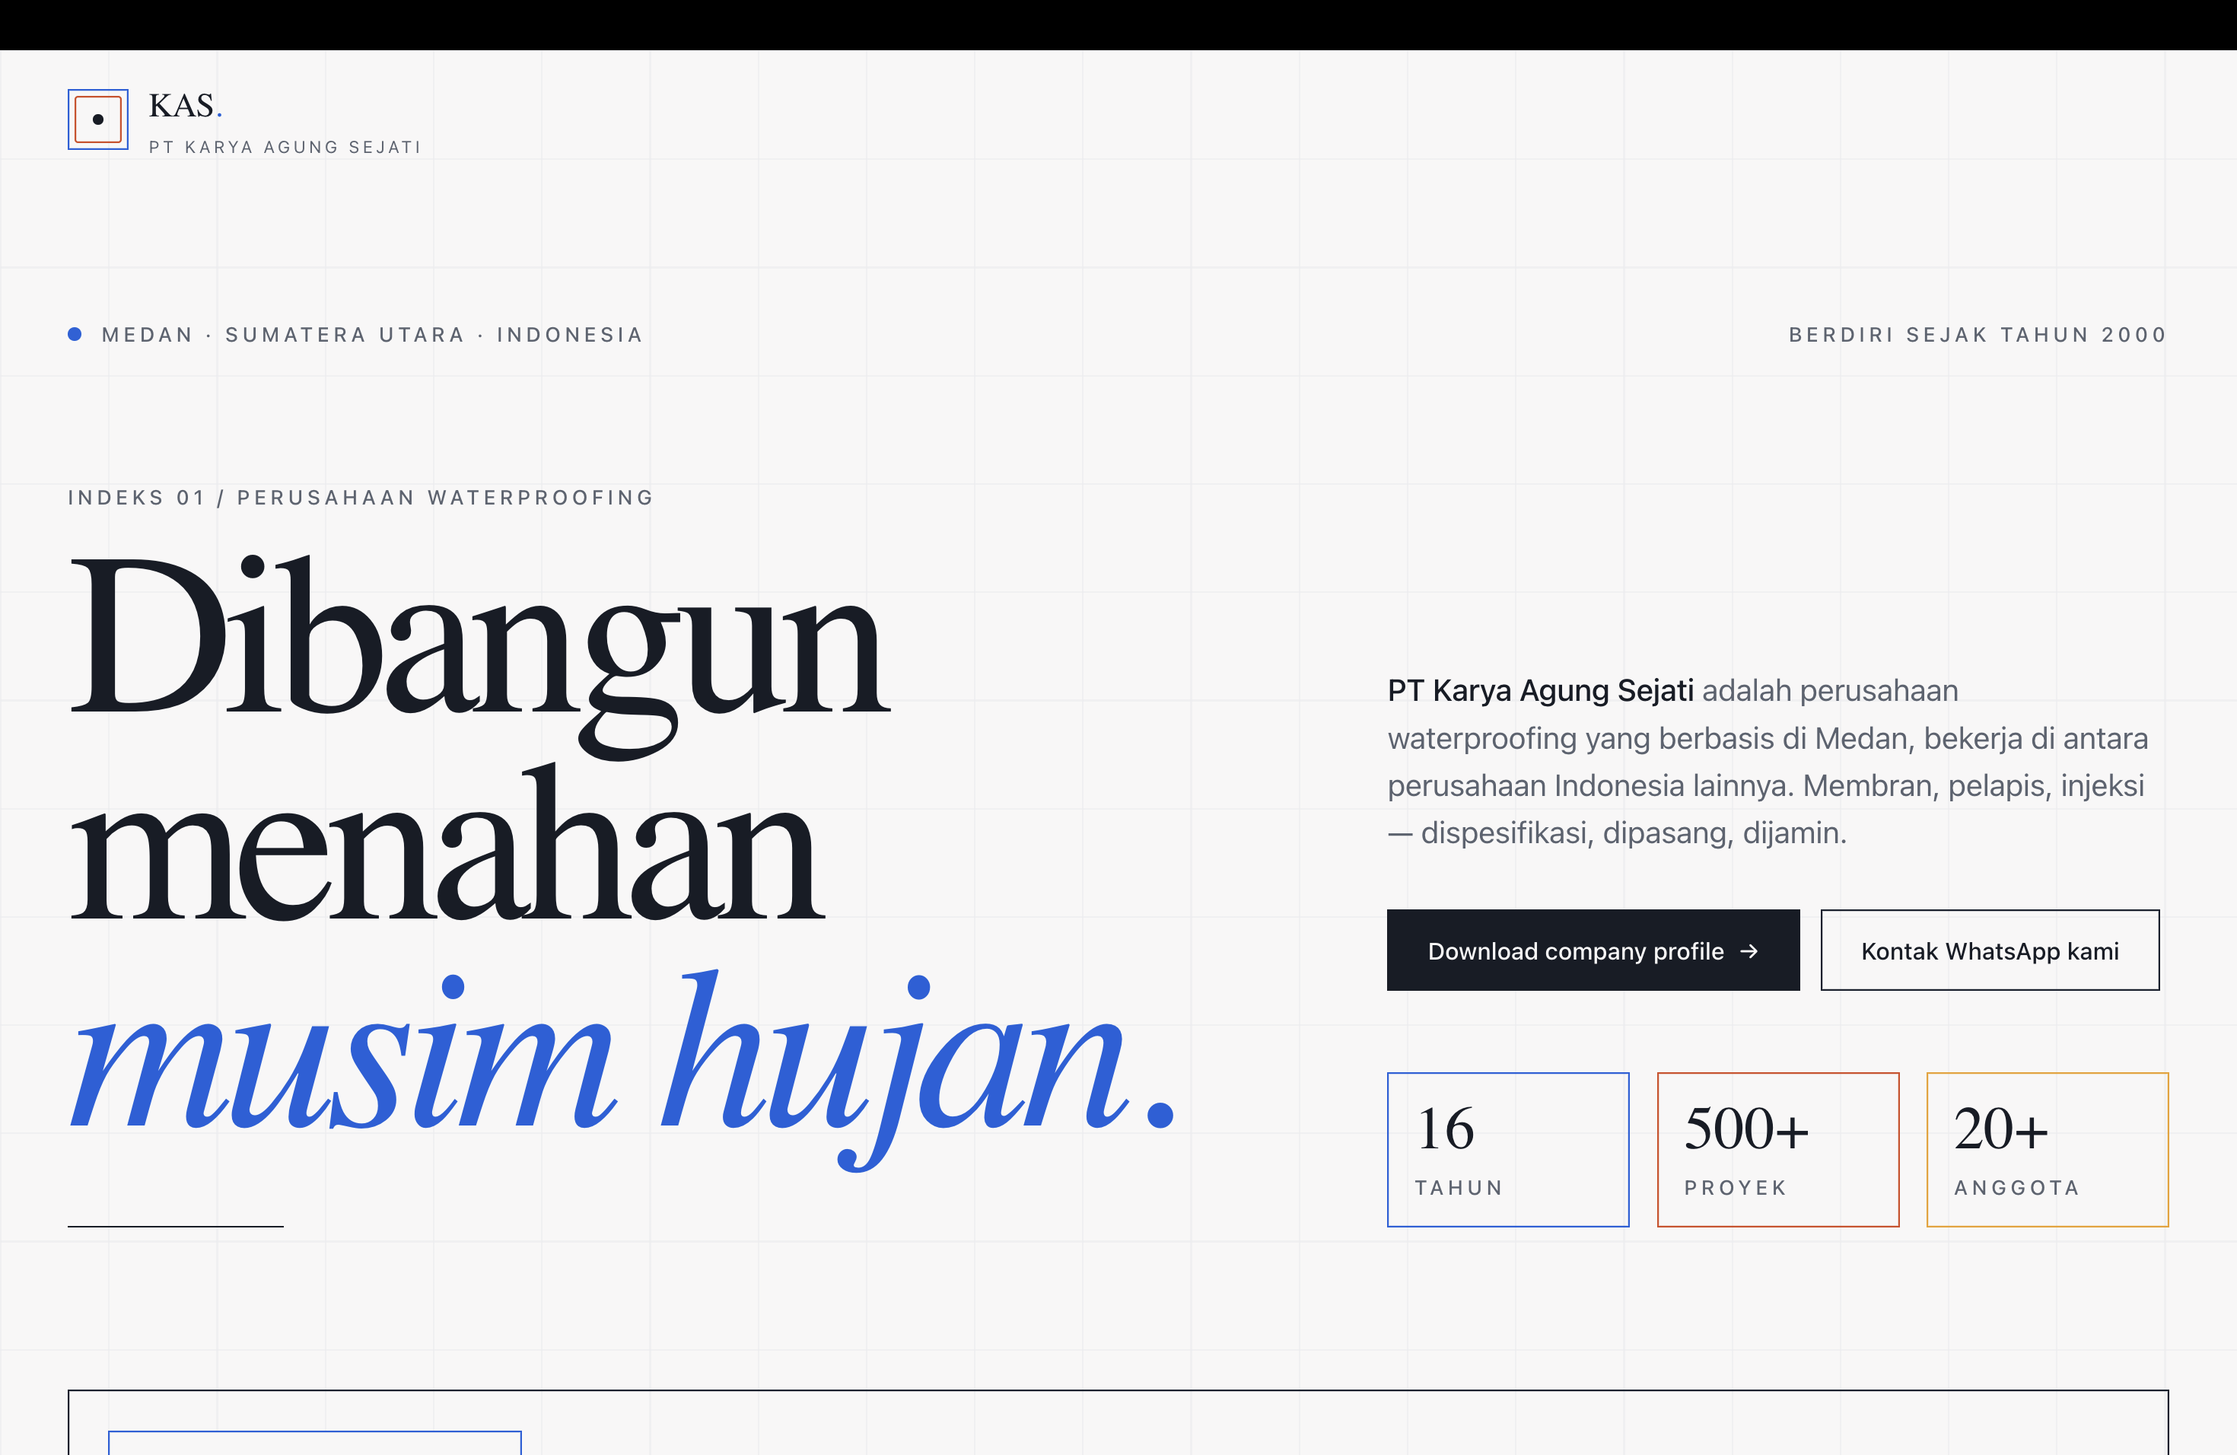
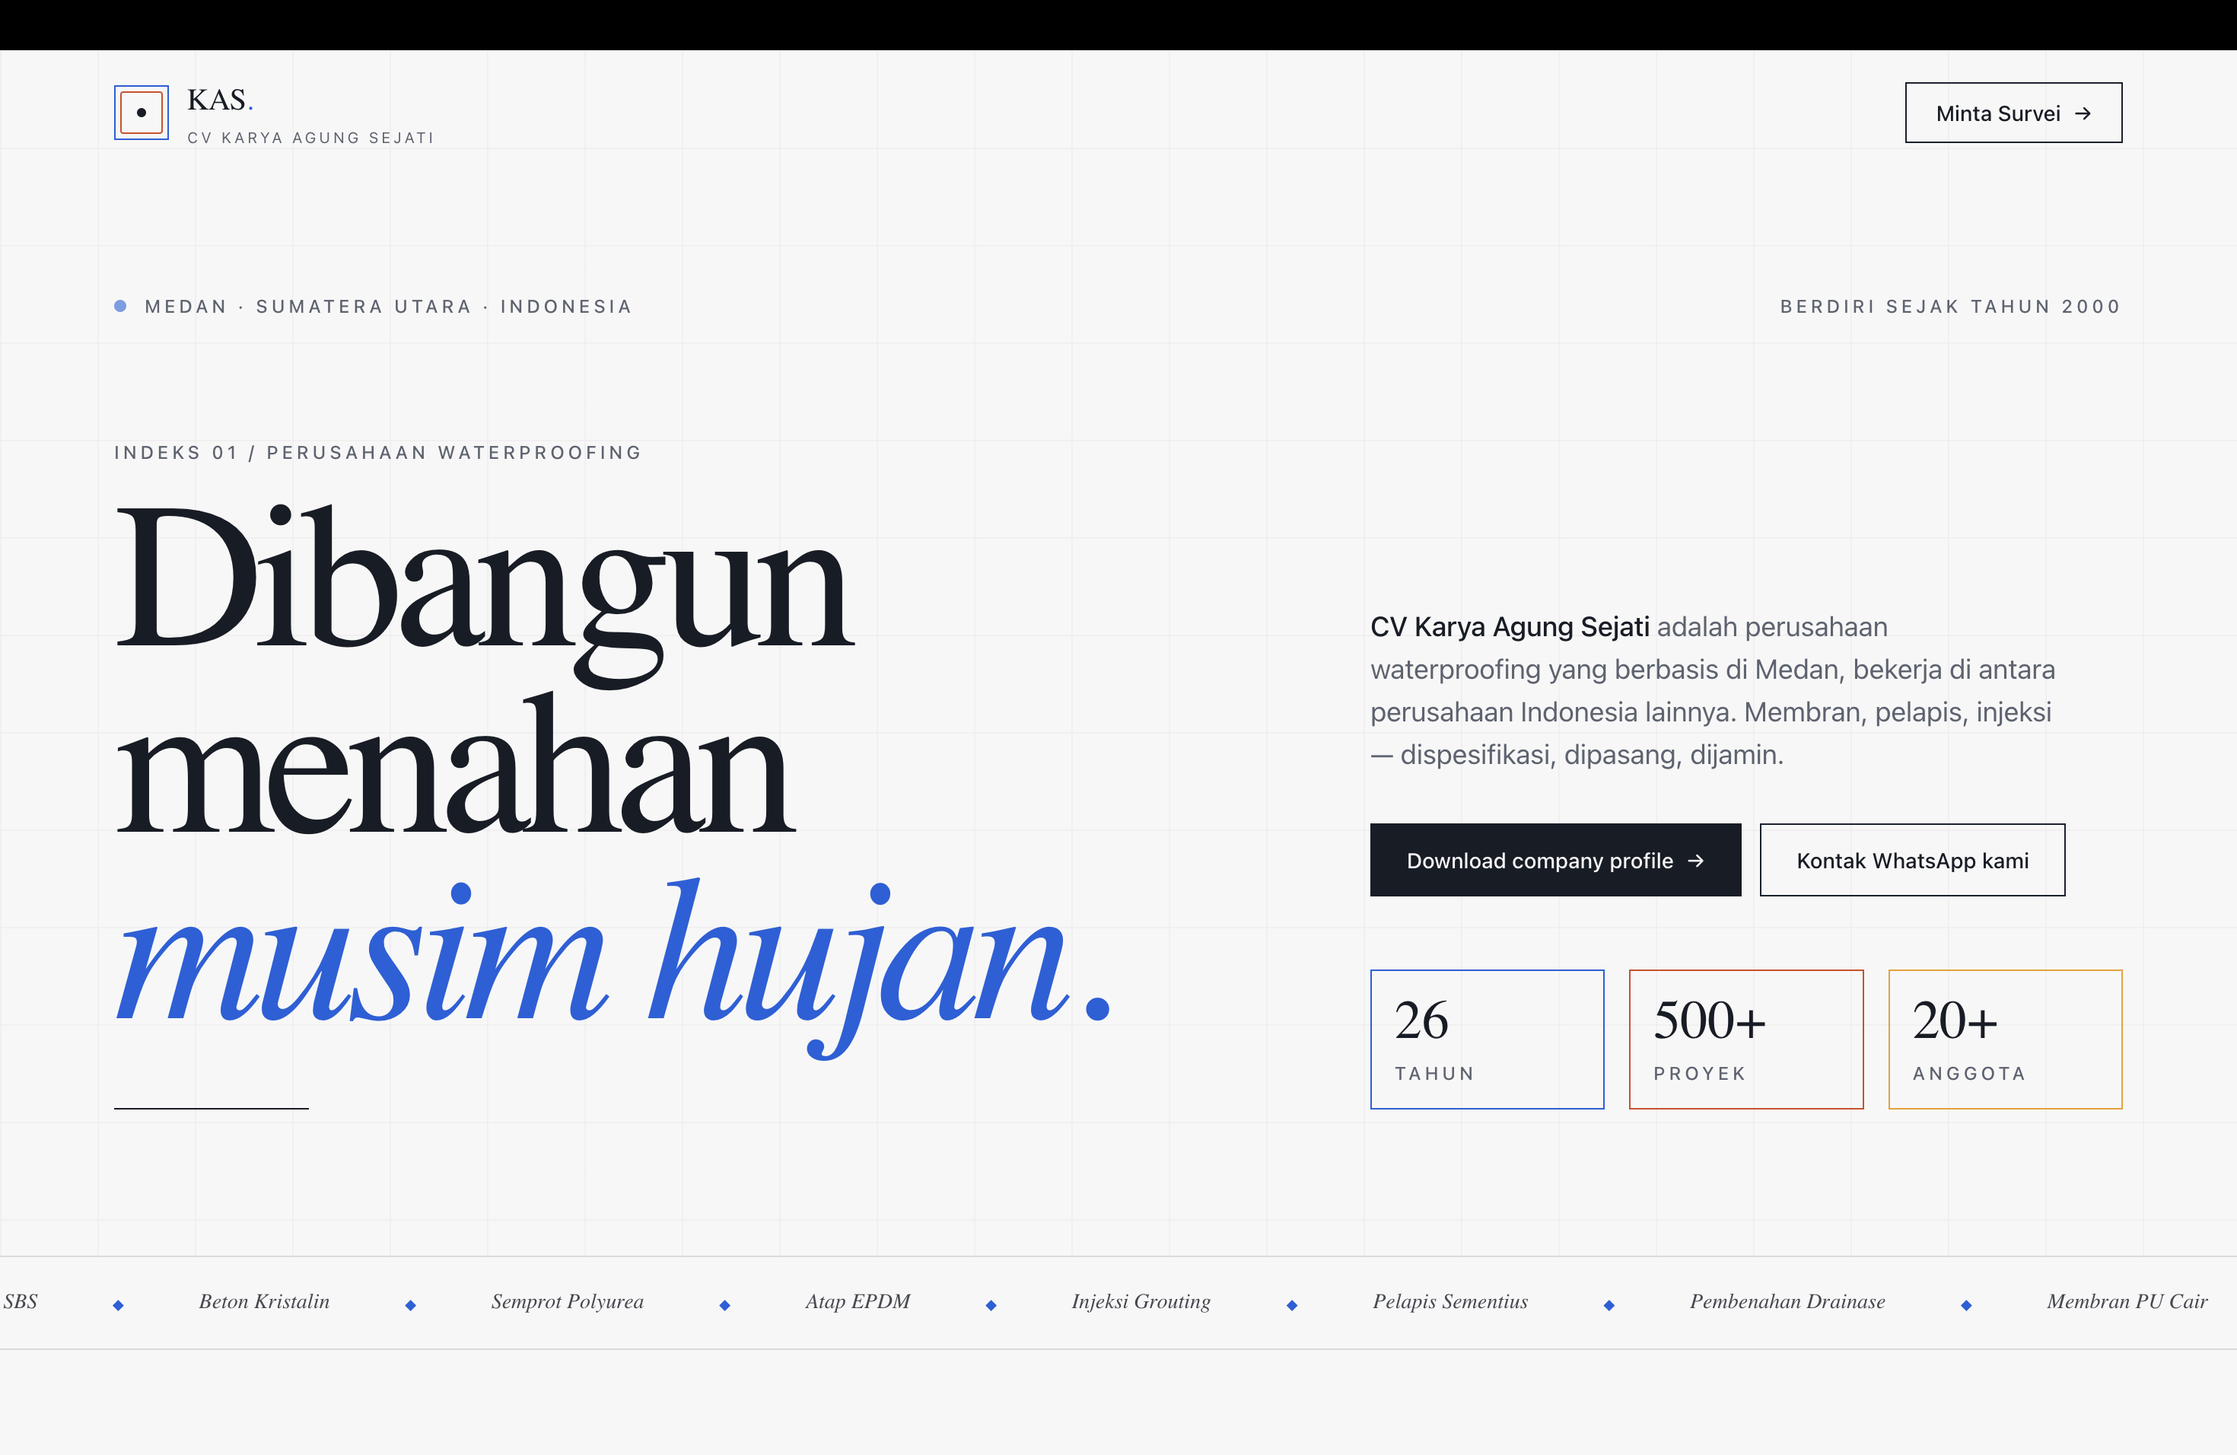
edit website color palette

diff --git a/src/components/Services.jsx b/src/components/Services.jsx
@@ -1,0 +1,92 @@
+"use client";
+
+import { motion } from "framer-motion";
+import { BiCodeAlt, BiPalette, BiLayout, BiTrendingUp } from "react-icons/bi";
+
+const services = [
+	{
+		icon: BiCodeAlt,
+		title: "Web Design & Development",
+		description:
+			"Responsive, fast, and accessible websites — designed and built from the ground up, then tested across devices before they go live.",
+	},
+	{
+		icon: BiPalette,
+		title: "Branding & Identity",
+		description:
+			"Logos, visual systems, and brand guidelines that give your business a clear, memorable, and consistent voice.",
+	},
+	{
+		icon: BiLayout,
+		title: "UI/UX Design",
+		description:
+			"Wireframes, prototypes, and user flows shaped through fast iteration — interfaces that feel effortless to use.",
+	},
+	{
+		icon: BiTrendingUp,
+		title: "Digital Strategy",
+		description:
+			"Guidance for businesses, startups, and growing enterprises navigating digital transformation with purpose.",
+	},
+];
+
+export function Services() {
+	return (
+		<section id="services" className="relative px-[5%] py-16 md:py-24 lg:py-28">
+			<div className="container mx-auto max-w-7xl">
+				{/* Header */}
+				<div className="mx-auto mb-12 max-w-2xl text-center md:mb-16 lg:mb-20">
+					<div className="flex items-center justify-center mb-6">
+						<div className="h-px w-16 bg-gradient-to-r from-transparent to-primary-400" />
+						<motion.div
+							className="mx-4 w-3 h-3 bg-primary-400 rounded-full"
+							animate={{ scale: [1, 1.4, 1], opacity: [0.6, 1, 0.6] }}
+							transition={{ duration: 3, repeat: Infinity, ease: "easeInOut" }}
+						/>
+						<div className="h-px w-16 bg-gradient-to-l from-transparent to-primary-400" />
+					</div>
+					<p className="mb-3 font-semibold text-primary-300 tracking-wide uppercase md:mb-4">
+						What We Do
+					</p>
+					<h2 className="mb-5 md:mb-6 text-4xl font-bold md:text-5xl lg:text-6xl text-white">
+						Our Services
+					</h2>
+					<p className="md:text-lg text-neutral-200">
+						From the first dot of an idea to a fully launched product — here's how
+						we help you connect the lines.
+					</p>
+				</div>
+
+				{/* Cards */}
+				<div className="grid grid-cols-1 gap-6 sm:grid-cols-2 lg:grid-cols-4 lg:gap-8">
+					{services.map((service, index) => {
+						const Icon = service.icon;
+						return (
+							<motion.div
+								key={index}
+								className="group relative h-full backdrop-blur-xl bg-white/10 border border-white/20 rounded-3xl p-8 shadow-2xl transition-all duration-500 hover:bg-white/15 hover:border-white/30"
+								initial={{ opacity: 0, y: 30 }}
+								whileInView={{ opacity: 1, y: 0 }}
+								viewport={{ once: true, margin: "-80px" }}
+								transition={{ duration: 0.5, delay: index * 0.1 }}
+								whileHover={{ y: -8 }}
+							>
+								<div className="mb-6 inline-flex items-center justify-center w-14 h-14 rounded-2xl bg-gradient-to-br from-primary-400/30 to-accent-400/20 border border-white/20">
+									<Icon className="w-7 h-7 text-primary-200" />
+								</div>
+								<h3 className="mb-3 text-xl font-bold text-white">
+									{service.title}
+								</h3>
+								<p className="text-neutral-200 leading-relaxed">
+									{service.description}
+								</p>
+							</motion.div>
+						);
+					})}
+				</div>
+			</div>
+		</section>
+	);
+}
+
+export default Services;

diff --git a/src/components/common/Navbar.jsx b/src/components/common/Navbar.jsx
@@ -83,6 +83,13 @@ export function Navbar() {
 				{/* Desktop Navigation */}
 				<nav className="hidden lg:flex items-center space-x-4">
 					<button
+						onClick={() => scrollToSection("services")}
+						className="px-3 py-1 text-sm hover:text-primary-600 focus:outline-none focus:ring-2 focus:ring-primary-600 focus:ring-offset-2 rounded transition-colors duration-200 cursor-pointer"
+						aria-label="Navigate to Services section"
+					>
+						Services
+					</button>
+					<button
 						onClick={() => scrollToSection("about-us")}
 						className="px-3 py-1 text-sm hover:text-primary-600 focus:outline-none focus:ring-2 focus:ring-primary-600 focus:ring-offset-2 rounded transition-colors duration-200 cursor-pointer"
 						aria-label="Navigate to About Us section"
@@ -126,7 +133,7 @@ export function Navbar() {
 					aria-expanded={useActive.animateMobileMenu === "open"}
 				>
 					<motion.span
-						className="my-[2px] h-0.5 w-5 bg-black"
+						className="my-[2px] h-0.5 w-5 bg-white"
 						animate={useActive.animateMobileMenuButtonSpan}
 						variants={{
 							open: { translateY: 6, transition: { delay: 0.1 } },
@@ -139,7 +146,7 @@ export function Navbar() {
 						}}
 					/>
 					<motion.span
-						className="my-[2px] h-0.5 w-5 bg-black"
+						className="my-[2px] h-0.5 w-5 bg-white"
 						animate={useActive.animateMobileMenu}
 						variants={{
 							open: { width: 0, transition: { duration: 0.1 } },
@@ -150,7 +157,7 @@ export function Navbar() {
 						}}
 					/>
 					<motion.span
-						className="my-[2px] h-0.5 w-5 bg-black"
+						className="my-[2px] h-0.5 w-5 bg-white"
 						animate={useActive.animateMobileMenuButtonSpan}
 						variants={{
 							open: { translateY: -6, transition: { delay: 0.1 } },
@@ -178,6 +185,16 @@ export function Navbar() {
 				className="lg:hidden overflow-hidden"
 			>
 				<nav className="px-4 pb-3 space-y-1">
+					<button
+						onClick={() => {
+							scrollToSection("services");
+							useActive.toggleMobileMenu();
+						}}
+						className="block w-full py-2.5 text-left text-sm hover:text-primary-600 focus:outline-none focus:ring-2 focus:ring-primary-600 focus:ring-offset-2 rounded transition-colors duration-200 cursor-pointer"
+						aria-label="Navigate to Services section"
+					>
+						Services
+					</button>
 					<button
 						onClick={() => {
 							scrollToSection("about-us");

diff --git a/src/pages/Home.jsx b/src/pages/Home.jsx
@@ -7,6 +7,7 @@ import Footer from "../components/common/Footer";
 
 import Header from "../components/Header";
 import Sliders from "../components/Sliders";
+import Services from "../components/Services";
 import CorePrinciples from "../components/CorePrinciples";
 import ThreeStepDesignProcess from "../components/ThreeStepDesignProcess";
 import Portfolio from "../components/Portfolio";
@@ -18,7 +19,7 @@ function Home() {
 	return (
 		<>
 			{/* Navigation */}
-			<div className="z-50 sticky top-0 left-0 right-0 bg-white">
+			<div className="z-50 sticky top-0 left-0 right-0 bg-[#21545c]">
 				<Navbar />
 			</div>
 
@@ -27,6 +28,8 @@ function Home() {
 				<Header />
 
 				<Sliders />
+
+				<Services />
 
 				<div className="max-w-7xl mx-auto px-4 sm:px-6 lg:px-8">
 					<div className="flex flex-col items-center justify-center py-8 lg:py-12 w-full">
@@ -65,16 +68,16 @@ function Home() {
 			</main>
 
 			{/* Location Section */}
-			<div className="w-full border-t border-black/10 bg-white">
+			<div className="w-full border-t border-white/10 bg-[#21545c]">
 				<div className="mx-auto max-w-7xl px-[5%] py-10 flex flex-col items-center gap-2 text-center">
-					<p className="text-xs font-semibold uppercase tracking-widest text-black/40">Based In</p>
-					<p className="text-2xl font-bold tracking-tight text-black">Medan, Indonesia</p>
-					<p className="text-sm text-black/50">Working with clients across the archipelago and beyond.</p>
+					<p className="text-xs font-semibold uppercase tracking-widest text-white/50">Based In</p>
+					<p className="text-2xl font-bold tracking-tight text-white">Medan, Indonesia</p>
+					<p className="text-sm text-white/60">Working with clients across the archipelago and beyond.</p>
 				</div>
 			</div>
 
 			{/* Footer */}
-			<div className="z-50 bg-white">
+			<div className="z-50 bg-[#21545c]">
 				<Footer />
 			</div>
 		</>

diff --git a/src/components/Sliders.jsx b/src/components/Sliders.jsx
@@ -61,7 +61,7 @@ export function Sliders() {
 	return (
 		<section
 			ref={containerRef}
-			className="relative bg-linear-to-b from-transparent via-neutral-50/30 to-primary-50/20"
+			className="relative"
 		>
 			{/* Scroll container */}
 			<div className={isMobile ? "relative h-[800vh]" : "relative h-[600vh]"}>
@@ -70,7 +70,7 @@ export function Sliders() {
 					<div className="relative text-center max-w-6xl mx-auto px-4 sm:px-8">
 						{/* Header */}
 						<div className="mb-6 sm:mb-12">
-							<p className="text-base sm:text-lg md:text-xl font-semibold text-neutral-700 tracking-wide uppercase">
+							<p className="text-base sm:text-lg md:text-xl font-semibold text-neutral-200 tracking-wide uppercase">
 								Who do we work for?
 							</p>
 						</div>
@@ -82,7 +82,7 @@ export function Sliders() {
 								style={style0}
 							>
 								<span className="block text-secondary-500">Business</span>
-								<span className="block text-neutral-800">
+								<span className="block text-white">
 									Digital Transformation
 								</span>
 							</motion.h2>
@@ -101,7 +101,7 @@ export function Sliders() {
 								<span className="block bg-gradient-to-r from-accent-600 via-primary-500 to-secondary-600 bg-clip-text text-transparent">
 									Micro or Small
 								</span>
-								<span className="block text-neutral-800">Enterprises</span>
+								<span className="block text-white">Enterprises</span>
 							</motion.h2>
 
 							<motion.h2
@@ -111,7 +111,7 @@ export function Sliders() {
 								<span className="block bg-gradient-to-r from-primary-600 via-accent-500 to-secondary-600 bg-clip-text text-transparent">
 									Company or Agency
 								</span>
-								<span className="block text-neutral-800">Re-Branding</span>
+								<span className="block text-white">Re-Branding</span>
 							</motion.h2>
 						</div>
 					</div>

diff --git a/src/components/Portfolio.jsx b/src/components/Portfolio.jsx
@@ -15,7 +15,7 @@ export function Portfolio() {
 						<h2 className="mb-5 md:mb-6 text-4xl font-bold md:text-5xl lg:text-6xl">
 							What I've Built
 						</h2>
-						<p className="md:text-md text-slate-600">
+						<p className="md:text-md text-slate-300">
 							A showcase of personal projects — built to explore ideas, sharpen skills, and bring concepts to life.
 						</p>
 					</div>
@@ -70,7 +70,7 @@ export function Portfolio() {
 									{/* Project Details */}
 									<div className="mt-6 grid grid-cols-1 items-start justify-between gap-6 md:mt-8 md:grid-cols-2 md:gap-12">
 										<div>
-											<h3 className="text-xl font-bold md:text-2xl text-slate-900 mb-4">
+											<h3 className="text-xl font-bold md:text-2xl text-white mb-4">
 												{project.id}. {project.title}{" "}
 												{project.status && (
 													<span className={`${project.statusColor} bold`}>
@@ -82,7 +82,7 @@ export function Portfolio() {
 												{project.tags.map((tag, index) => (
 													<span
 														key={index}
-														className={`px-4 py-2 font-semibold text-sm tracking-wider rounded-full border border-black backdrop-blur-sm ${tag.hoverColor} transition-colors duration-300`}
+														className={`px-4 py-2 font-semibold text-sm tracking-wider rounded-full border border-white/40 backdrop-blur-sm ${tag.hoverColor} transition-colors duration-300`}
 													>
 														{tag.name}
 													</span>
@@ -90,7 +90,7 @@ export function Portfolio() {
 											</div>
 										</div>
 										<div className="backdrop-blur-sm p-6 border border-white/30">
-											<p className="text-slate-700 leading-relaxed">
+											<p className="text-slate-200 leading-relaxed">
 												{project.description}
 											</p>
 

diff --git a/src/components/Quote.jsx b/src/components/Quote.jsx
@@ -18,7 +18,7 @@ export function Quote() {
 						<div className="h-px w-16 bg-gradient-to-l from-transparent to-primary-400"></div>
 					</div>
 
-					<p className="text-xl md:text-2xl font-semibold text-neutral-700 tracking-wide">
+					<p className="text-xl md:text-2xl font-semibold text-neutral-200 tracking-wide">
 						What is the meaning of{" "}
 						<span className="font-extrabold">Titik Jalin</span>?
 					</p>
@@ -26,7 +26,7 @@ export function Quote() {
 
 				<div className="relative">
 					<div className="relative z-10">
-						<div className="text-2xl md:text-3xl lg:text-4xl leading-[1.4] font-bold text-neutral-800 mb-8">
+						<div className="text-2xl md:text-3xl lg:text-4xl leading-[1.4] font-bold text-white mb-8">
 							<span className="italic">"</span>Every great creation begins with
 							a single&nbsp;
 							<span className="relative inline-block">

diff --git a/src/components/CorePrinciples.jsx b/src/components/CorePrinciples.jsx
@@ -18,7 +18,7 @@ export function CorePrinciples() {
 							</div>
 
 							<h2 className="text-4xl font-bold md:text-5xl lg:text-6xl leading-tight">
-								<span className="block text-neutral-800 mb-2">
+								<span className="block text-white mb-2">
 									Our Core Principles That Guide Us
 								</span>
 							</h2>
@@ -78,7 +78,7 @@ export function CorePrinciples() {
 
 						<div className="relative">
 							<div className="absolute inset-0 bg-gradient-to-br from-primary-50/30 via-transparent to-secondary-50/20 rounded-2xl"></div>
-							<p className="text-lg leading-relaxed text-neutral-700">
+							<p className="text-lg leading-relaxed text-neutral-200">
 								At Titik Jalin, we believe in being{" "}
 								<strong className="text-primary-600">Human</strong>,{" "}
 								<strong className="text-secondary-600">Simple</strong>, and{" "}

diff --git a/src/components/Connect.jsx b/src/components/Connect.jsx
@@ -99,12 +99,12 @@ export const CTA = (props) => {
 					<motion.h2
 						className="mb-5 md:mb-6 text-4xl font-bold md:text-5xl lg:text-6xl text-white"
 					>
-						<span className="bg-gradient-to-r from-primary-300 via-secondary-300 to-accent-300 bg-clip-text text-black">
+						<span className="bg-gradient-to-r from-primary-300 via-secondary-300 to-accent-300 bg-clip-text text-white">
 							{heading}
 						</span>
 					</motion.h2>
 					<motion.p
-						className="md:text-lg text-black"
+						className="md:text-lg text-neutral-200"
 					>
 						{description}
 					</motion.p>

diff --git a/src/components/common/Footer.jsx b/src/components/common/Footer.jsx
@@ -85,7 +85,7 @@ export function Footer() {
 						</a>
 					</div>
 				</div>
-				<div className="h-px w-full bg-black" />
+				<div className="h-px w-full bg-white/20" />
 				<div className="flex items-center justify-center pt-6 pb-4 text-sm md:pt-8 md:pb-0">
 					<p className="text-center">
 						Titik Jalin - Human, Simple, Connected <br />

diff --git a/src/index.css b/src/index.css
@@ -147,6 +147,8 @@ body {
 	margin: 0 !important;
 	padding: 0 !important;
 	/* overflow-x: hidden !important; */
+	background-color: #21545c;
+	color: #e8f0ef;
 }
 
 * {
